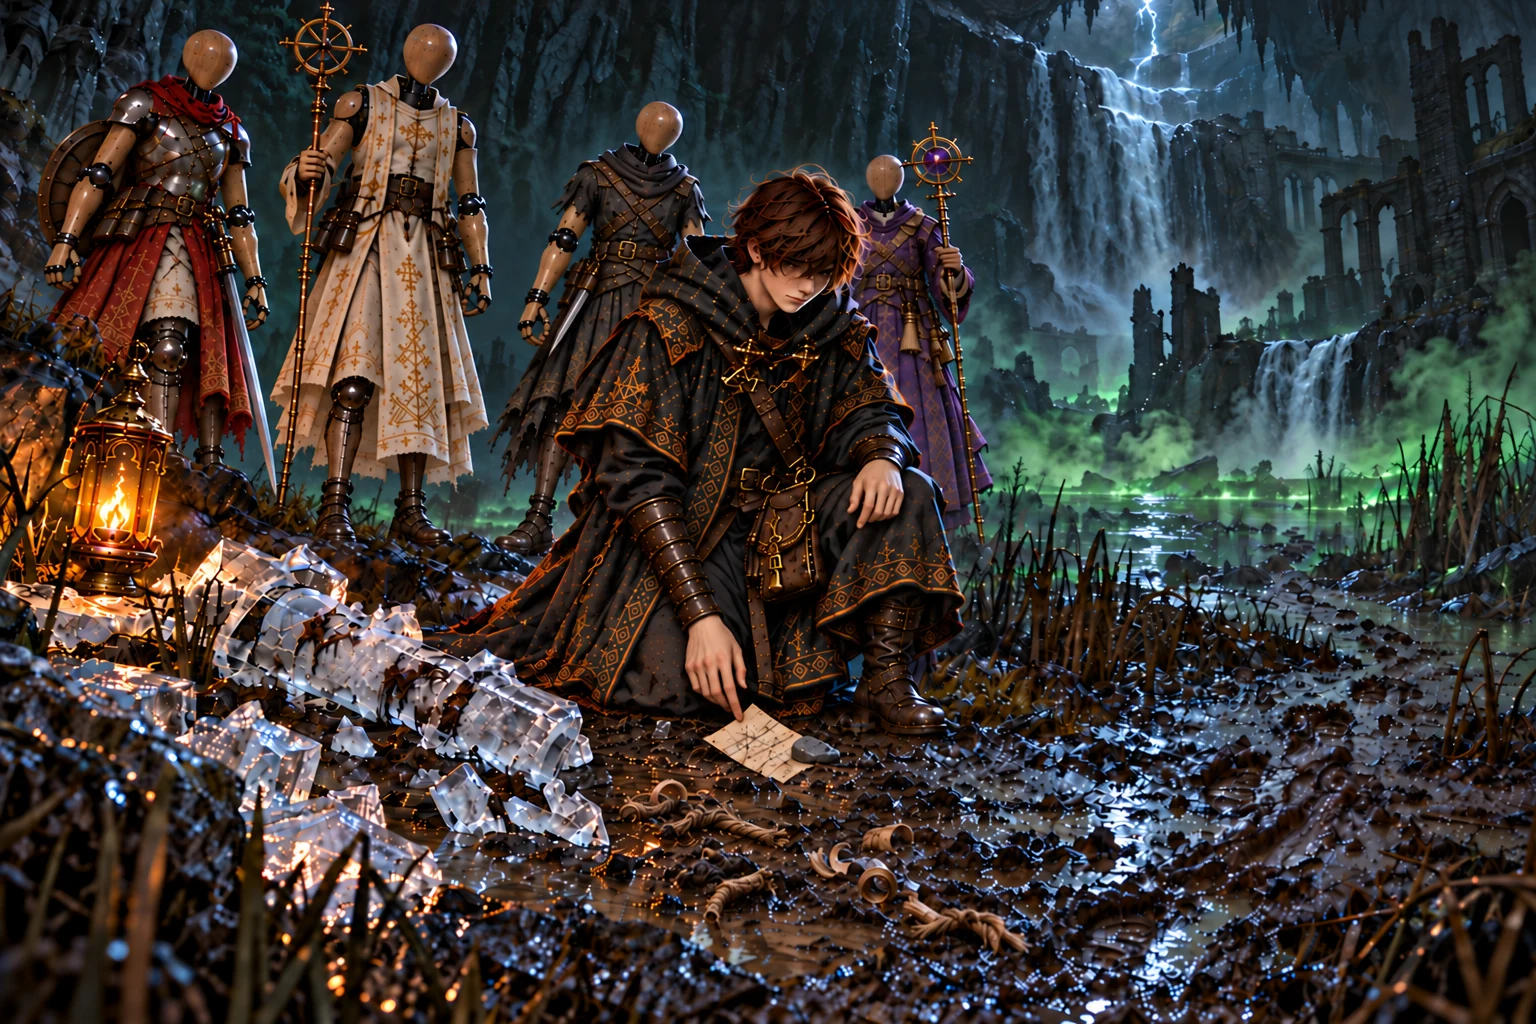
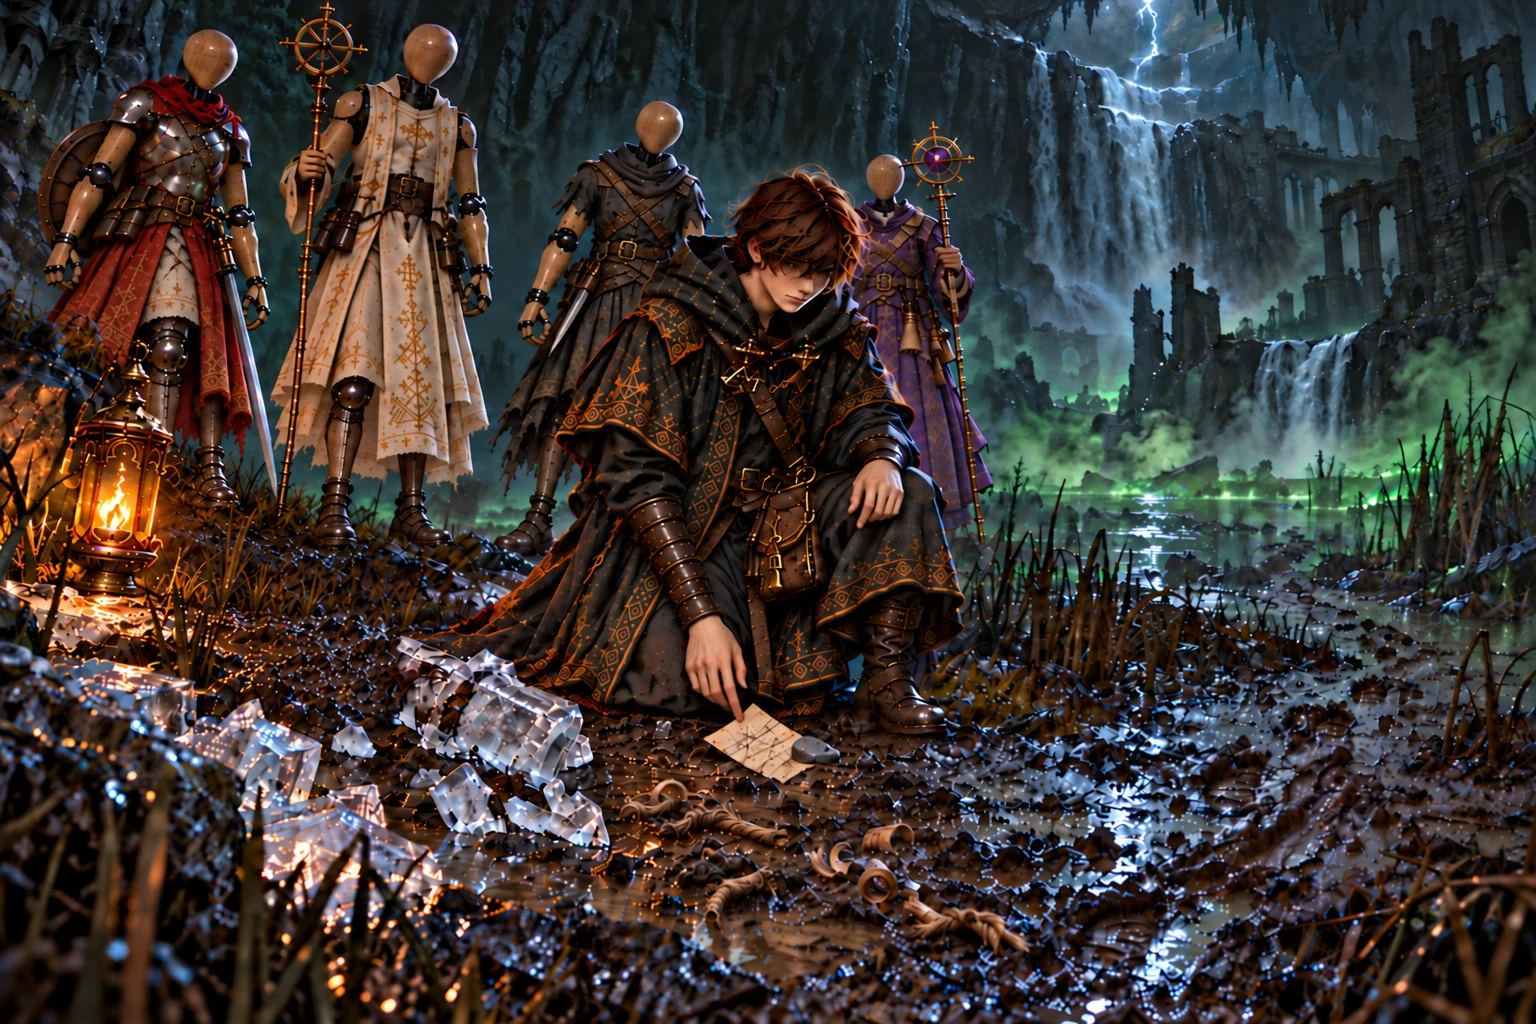
戦士の横に伸びた足をすねの直下へ修正

diff --git a/docs/art/codex-story-art-brief.md b/docs/art/codex-story-art-brief.md
@@ -219,6 +219,13 @@ Character reference sheet on a plain dark slate-blue background with soft even l
 
 ### A. 必須 (物語の筋や正典と食い違う)
 
+**A-47. 第七章 w26_splint「腕の木の添え木」戦士の足を体の下へ戻す** `art/story-review/chapter7/w26_splint.png` (済)
+- ユーザーの追加指示: 戦士の人業の足の位置を修正。ランタン右奥に残る横向きの脚・靴のような塊を消し、腰から下りたすねのすぐ下に、小さな接地した足を描き直す。足が横に長く伸びる形を残さない。
+- 戦士以外の人業・弟子・小道具・背景・光は保つ。修正前は `art/story-review/fixes/w26_splint-warrior-before.png` に保存。
+```text
+...except: edit ONLY the small patch x=165-310,y=440-555 around the far-left red-cloaked warrior's lower shin and foot behind the orange lantern. Remove the long horizontal armored calf/boot lying across that patch. Replace it with ordinary wet mud, sparse reeds and ONE compact armored foot directly beneath the warrior's vertical shin near x=205,y=465. The foot occupies only x=195-240,y=480-510, planted flat on the bank, pointing slightly toward the viewer. Connect this small foot naturally to that shin; do not extend it sideways toward the priest. Preserve the other leg where the lantern hides it. If TWO scene references are attached: the FIRST is the base image and must be preserved; the SECOND shows the correctly placed compact foot and cleared muddy patch to copy ONLY into that small region of the FIRST. Do not copy any other part of the second image. Everything outside x=165-310,y=440-555 MUST remain exactly as in the FIRST image. In particular, keep ALL the original ice shards and their reflections across the diagonal foreground band x=190-650,y=560-820. Do not remove, move or simplify that ice. Preserve every person, the apprentice's face and cape, all other dolls, the lantern, shavings, rope ends, single note, stone, footprints, background, camera and lighting unchanged. No extra feet, no horizontal armor, no new objects. Return the FIRST image with just this localized foot correction.
+```
+
 **A-46. 第七章 w26_splint「腕の木の添え木」後列の人業の脚を整理** `art/story-review/chapter7/w26_splint.png` (済)
 - ユーザー指示: 後ろにいる人業の足の位置と本数を修正。四体それぞれの腰から左右一本ずつ、腿・膝・すね・足首・足が自然につながるようにする。弟子や衣装の陰に隠れた脚は隠し、離れた場所に足だけを描かない。
 - 保つもの: 四体の顔のない丸い木の頭・上半身・衣装・武器、弟子、ランタン、氷、削りくず、縄の切れ端、石で押さえた一枚の紙、足跡、背景、構図と光。修正前は `art/story-review/fixes/w26_splint-legs-before.png` に保存。

diff --git a/art/story-review/fixes/w26_splint.md b/art/story-review/fixes/w26_splint.md
@@ -27,3 +27,10 @@
 - [修正前後と脚の拡大比較](w26_splint-legs-review.png)
 
 原画からWebPと第七章の縮小見本を再生成し、画像登録・制作指示・読み物の検査を実施。
+
+## 戦士の足の位置の再修正
+
+2026-10-17。前回残っていた、ランタンの右奥へ横に伸びる脚・靴のような塊を除去し、泥と葦の地面に戻した。戦士のすねの直下へ小さな足を描き直し、足首からつながって接地する姿に整えた。手前の氷、書きつけ、他の人業と弟子を保った。
+
+- [戦士の足の修正前](w26_splint-warrior-before.png)
+- [戦士の足の拡大比較](w26_splint-warrior-review.png)
